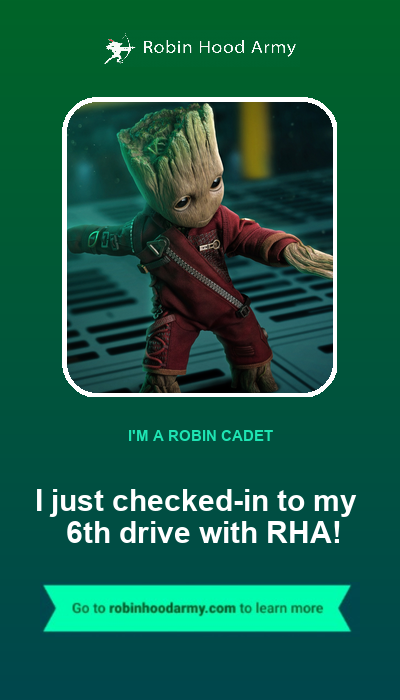
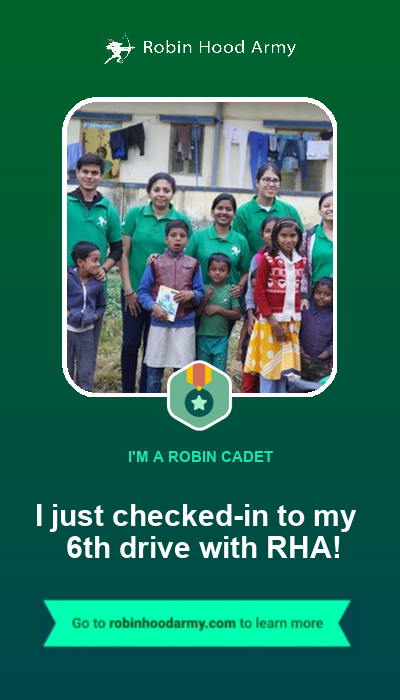
add badges

diff --git a/app.py b/app.py
@@ -44,9 +44,9 @@ used_height = y + logo_height
 # get a random image
 # image_response = requests.get('https://source.unsplash.com/random/300x200')
 # image = Image.open(io.BytesIO(image_response.content))
-image = Image.open("static/checkin-sample.jpg")
-image = Image.open("static/checkin-sample3.jpg")
 image = Image.open("static/checkin-sample2.jpg")
+image = Image.open("static/checkin-sample3.jpg")
+image = Image.open("static/checkin-sample.jpg")
 
 # Crop the image
 # Define crop dimensions
@@ -70,6 +70,20 @@ used_height = y + image_height
 # ~~~~~~~~~~ end: image ~~~~~~~~~~~~
 
 
+# ~~~~~~~~~~ Badge image ~~~~~~~~~~~~
+badge_image = Image.open("static/badges/cadet.png")
+# resize the badge_image
+new_size = tuple(dim - padding*2.5 for dim in image.size)
+# new_size = tuple(dim // 1.6 for dim in container_size)
+badge_image.thumbnail(new_size)
+# paste image in container at the center
+image_width, image_height = badge_image.size
+x = (container_width - image_width) // 2
+y = int(used_height - margin*1.3)
+container.paste(badge_image, (x, y), badge_image)
+used_height = y + image_height
+# ~~~~~~~~~~ end: Badge image ~~~~~~~~~~~~
+
 # Add text to the container using the ImageDraw module
 draw = ImageDraw.Draw(container)
 text = "I'M A ROBIN CADET"
@@ -79,7 +93,7 @@ text_box = draw.textbbox((0, 0), text, font=font)
 text_width, text_height = (
     text_box[2] - text_box[0]), (text_box[3] - text_box[1])
 x = (container.width - text_width) / 2
-y = int(used_height + margin)
+y = int(used_height + margin*0.5)
 draw.text((x, y), text, font=font, fill=(30, 228, 179), align='center')
 used_height = y + text_height
 
@@ -92,7 +106,7 @@ text_box = draw.textbbox((0, 0), text, font=font)
 text_width, text_height = (
     text_box[2] - text_box[0]), (text_box[3] - text_box[1])
 x = (container.width - text_width) / 2
-y = int(used_height + margin *1.5)
+y = int(used_height + margin *1.3)
 draw.text((x, y), text, font=font, fill=(255, 255, 255), align='center')
 used_height = y + text_height
 

diff --git a/image_edit_helper.py b/image_edit_helper.py
@@ -48,24 +48,3 @@ def put_border_radius(image, border_radius, border_width=5, border_color=(255, 2
 
     return img_container
 
-
-
-# from PIL import Image
-
-# color1 = (0, 100, 40)
-# color2 = (0, 71, 77)
-# width, height = 300, 200
-
-# # create a new gradient image
-# gradient = Image.new('RGB', (width, height))
-
-# # draw gradient
-# for x in range(width):
-#     for y in range(height):
-#         r = int(color1[0] + (color2[0] - color1[0]) * x / width)
-#         g = int(color1[1] + (color2[1] - color1[1]) * x / width)
-#         b = int(color1[2] + (color2[2] - color1[2]) * x / width)
-#         gradient.putpixel((x, y), (r, g, b))
-
-# # save image
-# gradient.save('gradient.png')
